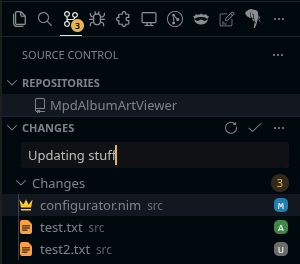
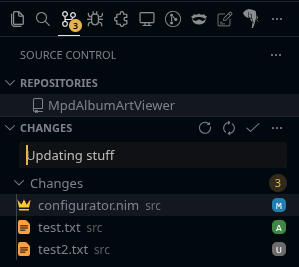
Format readme, update screenshots

diff --git a/README.md b/README.md
@@ -7,12 +7,15 @@ Status icons are from the [Microsoft VS Code Git extension](https://github.com/m
 ## Screenshots
 
 ### Source Control with diff viewer (integrated)
+
 ![Screenshot](doc/screenshot1.png)
 
 ### Timeline with diff viewer (split)
+
 ![Timeline](doc/timeline.png)
 
 ### Source Control commit flow / untracked file visibility
+
 ![Commit flow](doc/commit-flow.png)
 
 ## Features